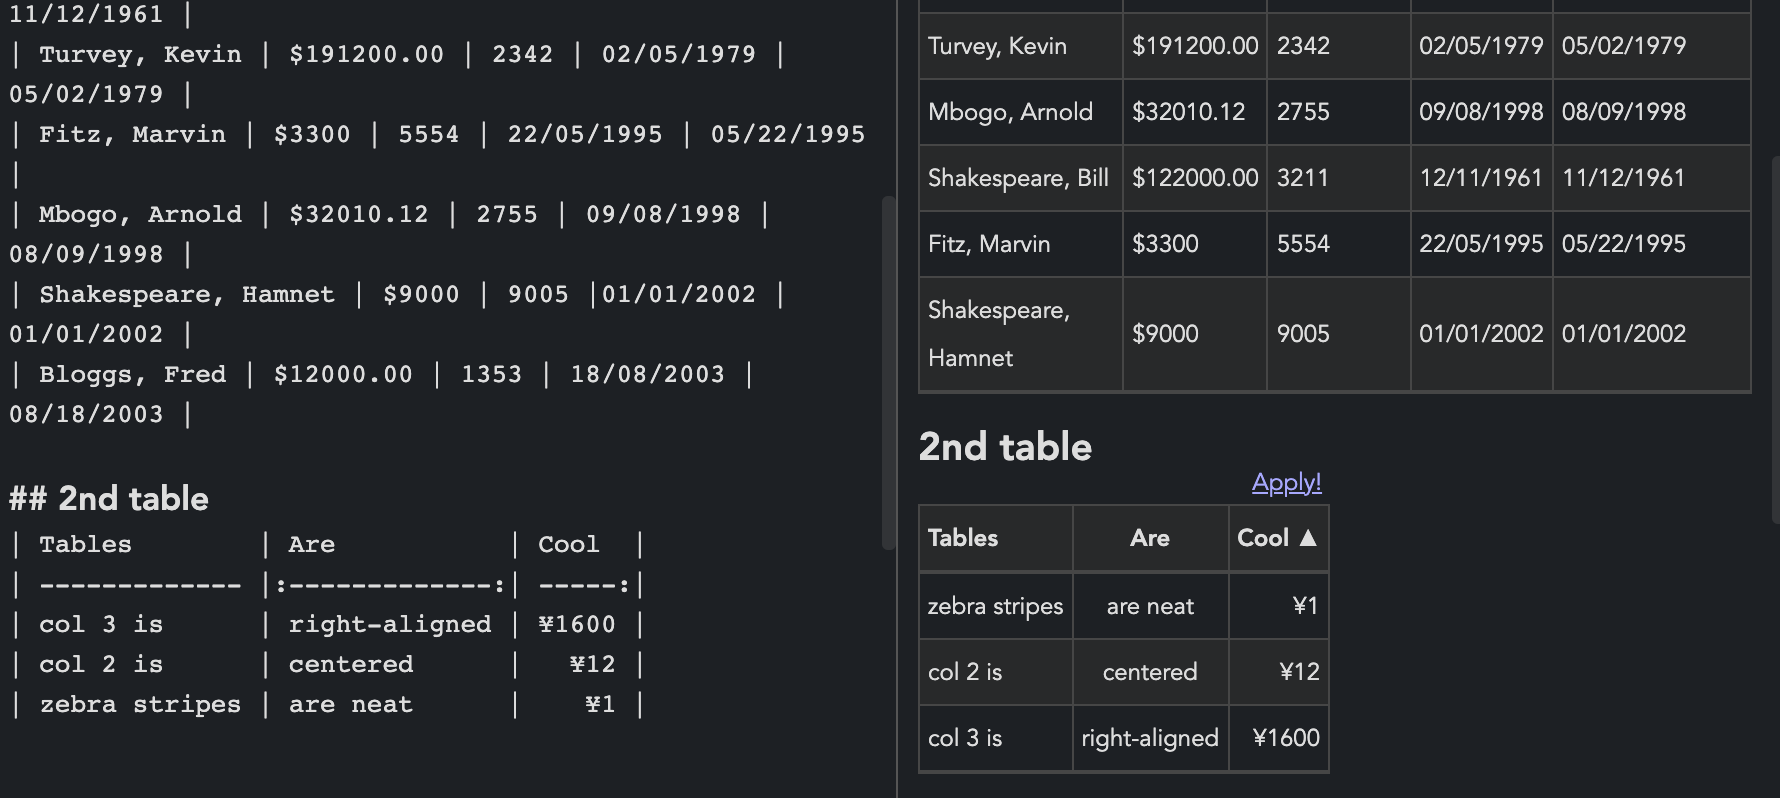
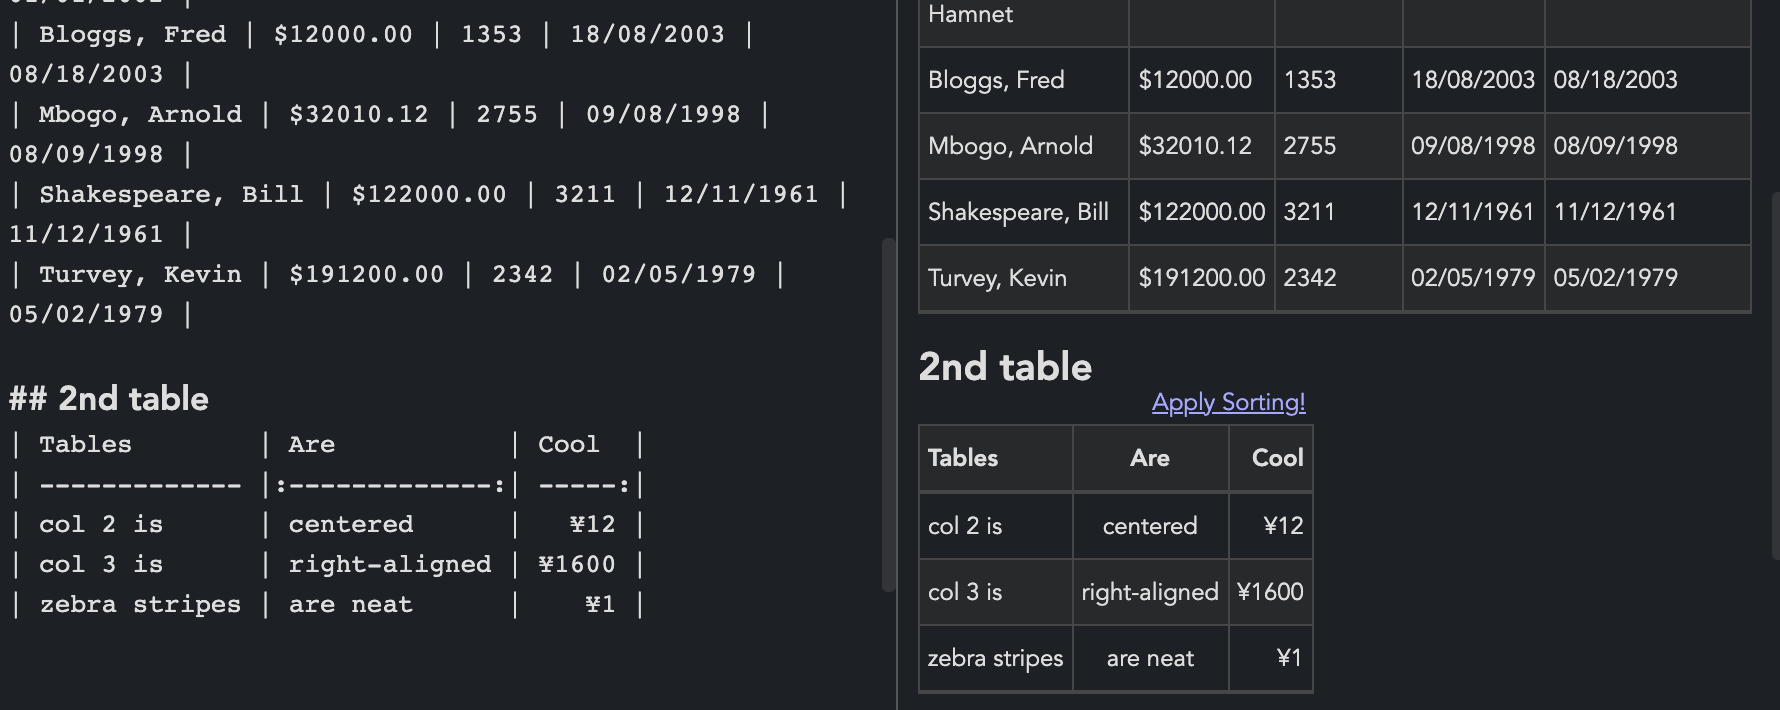
Partial-fix for #4

diff --git a/src/sorttable.css b/src/sorttable.css
@@ -11,3 +11,7 @@ table:hover tfoot {
   visibility: visible;
 }
 a.sortable-apply {padding:4px}
+
+#rendered-md table:first-child {
+  margin-top: 24px !important;
+}

diff --git a/README.md b/README.md
@@ -8,12 +8,12 @@ It is based on the [sorttable](https://www.kryogenix.org/code/browser/sorttable/
 
 ## Usage
 
-Click on the header to sort, click again to reverse the order. From v1.2.0 and above you apply your sorting to markdown source text by clicking on the "Apply Sorting!" button at the top right corner of the rendered table.
+Click on the header to sort, click again to reverse the order. From v1.2.0 and later you apply the sorting to markdown source text by clicking on the "Apply Sorting!" button at the top right corner of the rendered table.
 
 From v1.1.0 and later, the string sorting is case-insensitive and there is no option to change it back.
 If you really want case-sensitive sorting you can use [v.1.0.1](https://github.com/hieuthi/joplin-plugin-markdown-table-sortable/releases/tag/v1.0.1).
 
-The plugin only changes the rendered table and not the original markdown text unless you click explicitly click "Apply Sorting!" button. Otherwise, the order will be reset whenever the note is updated.
+The plugin only changes the rendered table and not the original markdown text unless you explicitly click "Apply Sorting!" button. Otherwise, the order will be reset whenever the note is updated.
 
 ## License
 [MIT](https://raw.githubusercontent.com/hieuthi/joplin-plugin-markdown-table-sortable/main/LICENSE)

diff --git a/CHANGELOG.md b/CHANGELOG.md
@@ -1,6 +1,6 @@
 # Changelog
 
-## [v1.2.1] = 2022-04-29
+## [v1.2.2] - 2022-04-30
 Add apply sorting feature
 
 ## [v1.1.0] - 2022-01-07
@@ -12,7 +12,7 @@ Update Manifest
 ## [v1.0.0] - 2021-11-19
 Initial version and fully working
 
-[v1.2.0]: https://github.com/hieuthi/joplin-plugin-markdown-table-sortable/compare/v1.1.0...v1.2.1
+[v1.2.2]: https://github.com/hieuthi/joplin-plugin-markdown-table-sortable/compare/v1.1.0...v1.2.2
 [v1.1.0]: https://github.com/hieuthi/joplin-plugin-markdown-table-sortable/compare/v1.0.1...v1.1.0
 [v1.0.1]: https://github.com/hieuthi/joplin-plugin-markdown-table-sortable/compare/v1.0.0...v1.0.1
 [v1.0.0]: https://github.com/hieuthi/joplin-plugin-markdown-table-sortable/releases/tag/v1.0.0
